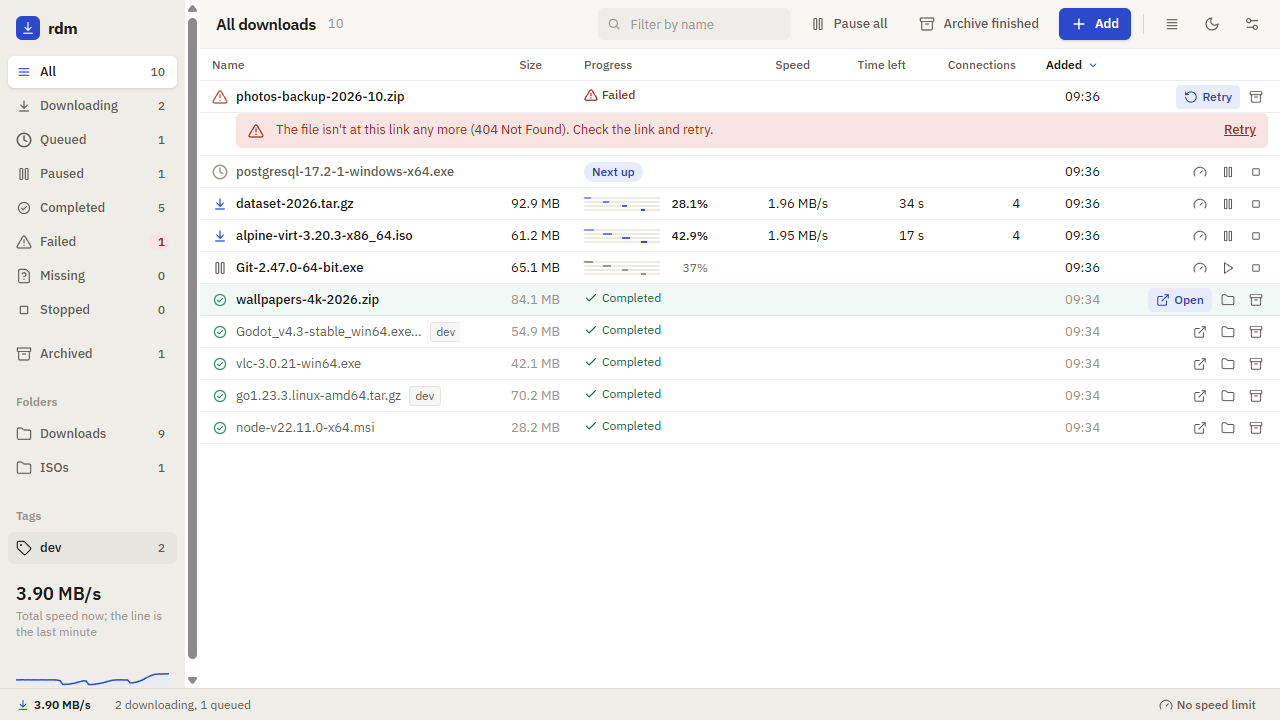
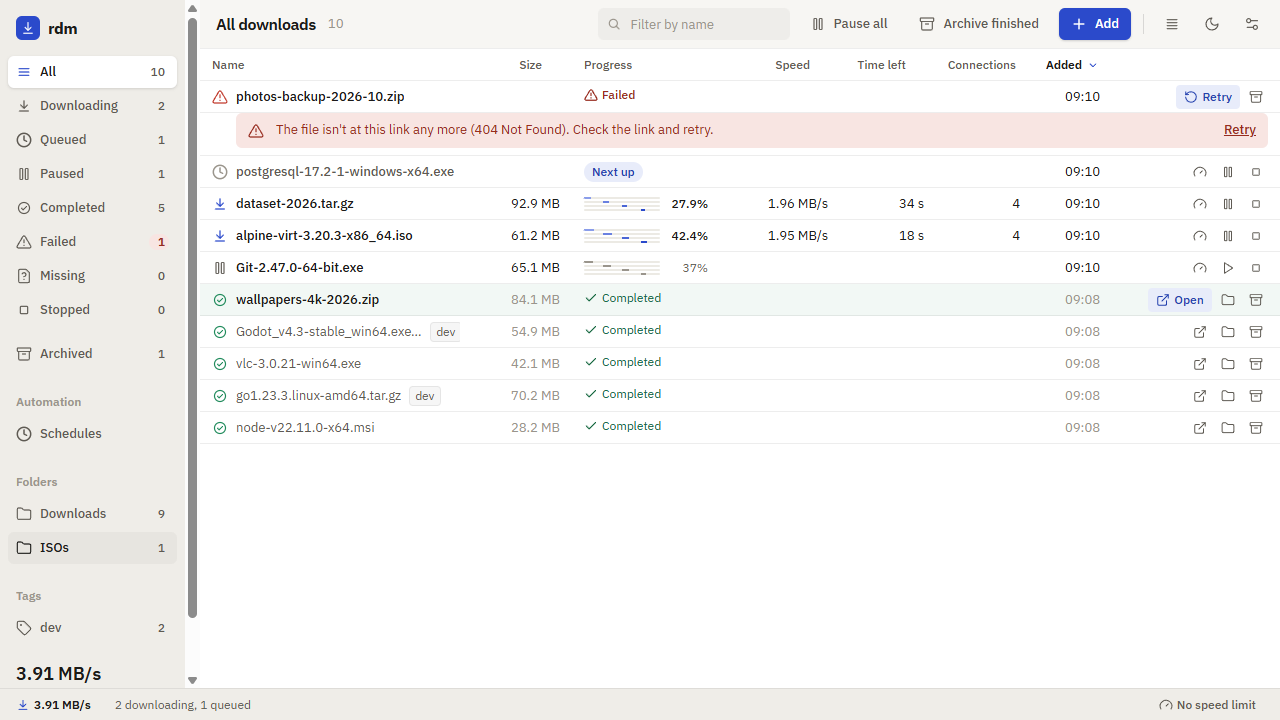
docs: scheduling and automation (#182)
* docs: scheduling and automation

Cross-check and tidy the scheduling docs (cli, gui, how-it-works), add a
README highlight and a changelog entry, and add a Schedules screenshot spec.
The Edit command form no longer shows its empty-program hint in red before
the field is touched, and the e2e typecheck error in schedule-finish is fixed.

* docs: regenerate screenshots with the Schedules view

Regenerate main-light, main-dark and details (new Automation group) and add
schedules.png. Seed the Schedules shot's rules in MiB and reload the page
after seeding so the view shows them.

* fix(gui): format CommandForm and keep the browser import in schedule-finish

---------

diff --git a/gui/e2e/screenshots/schedules.shots.ts b/gui/e2e/screenshots/schedules.shots.ts
@@ -1,0 +1,95 @@
+// Screenshot of the Schedules view: a download window, a speed limit and a tag-scoped window in
+// Rules, two downloads under Coming up, and the When downloads finish section. Run on its own
+// with `pnpm screenshots --spec screenshots/schedules.shots.ts`; RDM_SHOTS_OUT picks the folder
+// (default: the README's docs/screenshots). Not part of the e2e suite.
+
+import { mkdirSync } from "node:fs";
+import path from "node:path";
+import { $, browser } from "@wdio/globals";
+import { baseUrl, invoke, settingsButton, waitForGone } from "../helpers";
+
+const outDir = process.env.RDM_SHOTS_OUT!;
+const WEEKDAYS = ["mon", "tue", "wed", "thu", "fri"];
+const ALL_DAYS = [...WEEKDAYS, "sat", "sun"];
+
+describe("schedules screenshot", () => {
+  before(async () => {
+    mkdirSync(outDir, { recursive: true });
+    await browser.setWindowSize(1280, 900);
+    await browser.execute(() => window.dispatchEvent(new Event("resize")));
+    await browser.pause(500);
+    await $('[data-testid="add-button"]').waitForDisplayed();
+  });
+
+  it("captures the Schedules view", async () => {
+    await invoke("set_schedule", {
+      schedule: {
+        queue_windows: [
+          {
+            name: "Overnight only",
+            enabled: true,
+            window: { start: "22:00", end: "08:00", days: ALL_DAYS },
+            finish_running: false,
+          },
+          {
+            name: "Work tag at night",
+            enabled: true,
+            window: { start: "01:00", end: "06:00", days: ALL_DAYS },
+            finish_running: true,
+            scope: { kind: "tag", tag: "work" },
+          },
+        ],
+        speed_entries: [
+          {
+            name: "Daytime cap",
+            enabled: true,
+            window: { start: "08:00", end: "18:00", days: WEEKDAYS },
+            limit: 5 * 1024 * 1024,
+          },
+        ],
+      },
+    });
+    await invoke("set_post_actions", {
+      actions: {
+        command: { enabled: true, program: "scan.exe", args: ["{path}"] },
+        power: { enabled: false, action: "shutdown" },
+      },
+    });
+    for (const [name, startAt] of [
+      ["ubuntu.iso", "22:00"],
+      ["backup.zip", "03:00"],
+    ]) {
+      await invoke("add_download", {
+        url: `${baseUrl}/seg/${10 * 1000 * 1000}/${name}`,
+        dir: null,
+        checksum: null,
+        limit: null,
+        tags: null,
+        startAt,
+      });
+    }
+    // invoke() doesn't wait for the command, and the view reads the rules when it opens: give
+    // them a moment, then open the view.
+    await browser.pause(1000);
+    await settingsButton().click();
+    const theme = $('[role="group"][aria-label="Theme"]');
+    await theme.waitForDisplayed();
+    await theme.$("button=Light").click();
+    await settingsButton().click();
+    await waitForGone('[role="group"][aria-label="Theme"]');
+    // The page read its rules and actions at startup; reload so it shows the ones seeded above.
+    await browser.refresh();
+    await $('[data-testid="add-button"]').waitForDisplayed();
+    await $('[data-testid="schedules-link"]').click();
+    await $('[data-testid="schedules-view"]').waitForDisplayed();
+    await browser.execute(() => {
+      const style = document.createElement("style");
+      style.textContent =
+        '[data-testid="finish-notification"], [data-testid="toast"] { display: none !important; }';
+      document.head.append(style);
+      (document.activeElement as HTMLElement | null)?.blur();
+    });
+    await browser.pause(800);
+    await browser.saveScreenshot(path.join(outDir, "schedules.png"));
+  });
+});

diff --git a/gui/src/components/schedules/CommandForm.tsx b/gui/src/components/schedules/CommandForm.tsx
@@ -19,6 +19,8 @@ export function CommandForm({ initial, onSubmit, onClose }: Props) {
   const [args, setArgs] = useState(argsText(initial.args));
   const [error, setError] = useState<string | null>(null);
   const [busy, setBusy] = useState(false);
+  // An untouched empty field isn't an error yet.
+  const [touched, setTouched] = useState(false);
   const dialog = useRef<HTMLDivElement>(null);
   const first = useRef<HTMLInputElement>(null);
   const problem = commandProblem(program);
@@ -34,6 +36,7 @@ export function CommandForm({ initial, onSubmit, onClose }: Props) {
   }, [busy, onClose]);
 
   const submit = async () => {
+    setTouched(true);
     if (busy || problem) return;
     setBusy(true);
     setError(null);
@@ -76,7 +79,11 @@ export function CommandForm({ initial, onSubmit, onClose }: Props) {
                 type="text"
                 aria-label="Program"
                 value={program}
-                onChange={(e) => setProgram(e.target.value)}
+                onChange={(e) => {
+                  setProgram(e.target.value);
+                  setTouched(true);
+                }}
+                onBlur={() => setTouched(true)}
                 onKeyDown={(e) => e.key === "Enter" && void submit()}
                 placeholder="scan.exe"
                 className={FIELD}
@@ -104,9 +111,9 @@ export function CommandForm({ initial, onSubmit, onClose }: Props) {
           <div className="flex shrink-0 items-center gap-2 rounded-b-lg bg-surface px-6 py-4">
             <p
               data-testid="command-problem"
-              className={`min-w-0 flex-1 text-sm ${problem ? "text-danger-ink" : "text-g600"}`}
+              className={`min-w-0 flex-1 text-sm ${problem && touched ? "text-danger-ink" : "text-g600"}`}
             >
-              {problem}
+              {touched ? problem : null}
             </p>
             <button type="button" onClick={onClose} disabled={busy} className="btn btn-ghost">
               Cancel

diff --git a/gui/src/components/schedules/FinishSection.test.tsx b/gui/src/components/schedules/FinishSection.test.tsx
@@ -92,6 +92,20 @@ describe("When downloads finish", () => {
     expect(save).not.toHaveBeenCalled();
   });
 
+  it("keeps the empty program hint neutral until it is touched", () => {
+    render(OFF);
+    click(q("finish-command-switch"));
+    const hint = document.querySelector<HTMLElement>('[data-testid="command-problem"]')!;
+    expect(hint.textContent).toBe("");
+    expect(hint.className).not.toContain("danger");
+    const input = document.querySelector<HTMLInputElement>("#cmd-program")!;
+    act(() => {
+      input.dispatchEvent(new FocusEvent("focusout", { bubbles: true }));
+    });
+    expect(hint.textContent).toBe("Enter the program to run");
+    expect(hint.className).toContain("danger");
+  });
+
   it("saves the program and one argument per line", async () => {
     const save = render({
       ...OFF,

diff --git a/docs/cli.md b/docs/cli.md
@@ -19,8 +19,8 @@ rdm [OPTIONS] -i <FILE>
 | `--checksum <algo:hex>` | (One link only.) Verify the finished file against a checksum, e.g. `sha256:…`. |
 | `-c, --connections <n>` | Max parallel connections, 1–16 (default 4; `-c 1` for a single connection). Starts on one and adds more, up to `n`, while measured speed keeps rising. Used only for files of 2 MiB or more on servers that support range requests. |
 | `--limit-rate <rate>` | Cap the download speed in bytes/s, with an optional `K`/`M`/`G` suffix (×1024), e.g. `500K` or `2M`. Shared across all of the download's connections; in a batch it applies to each file. |
-| `--at <time>` | Wait until this local time, then download: `HH:MM` is the next such time (tomorrow's if it has passed), or give `YYYY-MM-DDTHH:MM`. rdm must stay running while it waits; Ctrl-C cancels. A time that isn't one is a usage error (exit 2). With a batch, the whole batch waits. |
-| `--on-finish <sleep\|shutdown>` | After every download has finished, wait 60 seconds (Ctrl-C cancels), then put the machine to sleep or shut it down. Not after a download failed or a Ctrl-C paused the run. An action that isn't one of the two is a usage error (exit 2); one the machine refuses prints an error and exits 1. |
+| `--at <time>` | Wait until this local time, then download: `HH:MM` is the next such time (tomorrow's if it has passed today), or give a full `YYYY-MM-DDTHH:MM`. rdm must stay running; Ctrl-C while waiting cancels. Without it the download starts at once. With a batch, the whole batch waits. See [Scheduling](#scheduling). |
+| `--on-finish <sleep\|shutdown>` | After every download has finished, wait 60 seconds (Ctrl-C cancels), then put the machine to `sleep` or `shutdown`. Not after a failure or a Ctrl-C. See [Scheduling](#scheduling). |
 | `--proxy <url>` | Download through this proxy instead of the system's: `http://`, `https://`, `socks5://` or `socks5h://` (host names resolved by the proxy), with an optional `user:pass@`, e.g. `socks5h://127.0.0.1:1080`. See [Proxies](#proxies). |
 | `--no-proxy` | Connect directly, ignoring the system's proxy. Can't be combined with `--proxy`. |
 | `-v, --verbose` | Also log informational engine events (how the download started, lanes added, resumes, the checksum result, where it was saved and a summary) to stderr. |
@@ -82,6 +82,28 @@ links is a usage error. Ctrl-C pauses every running file; run the same
 command again to resume each from where it stopped (files that had already
 finished are downloaded again, under a new name).
 
+## Scheduling
+
+```sh
+rdm --at 01:30 https://example.com/big.iso
+rdm --at 2026-12-01T22:00 -i urls.txt --on-finish shutdown
+```
+
+`--at` waits in the foreground, so rdm has to stay running until the time
+comes; Ctrl-C while waiting just ends rdm, with nothing downloaded. A
+time that isn't `HH:MM` or `YYYY-MM-DDTHH:MM`, or an action other than
+`sleep` or `shutdown`, is a usage error (exit `2`).
+
+`--on-finish` counts down 60 seconds after the last download finishes and
+then asks the operating system to sleep or shut down; Ctrl-C during the
+countdown cancels it (exit `130`). It does nothing if any download failed or
+a Ctrl-C paused the run. If the machine refuses, rdm prints an error and
+exits `1`.
+
+A download window, a speed schedule, running a command after each download
+and rules for a tag, host or batch are [GUI features](gui.md#schedules): the
+CLI runs once and exits, so there is no rule set for them to attach to.
+
 ## Proxies
 
 By default rdm uses the system's proxy:
@@ -128,10 +150,10 @@ To discard a partial download instead, delete its `<file>.part` and
 | Code | Meaning |
 |---|---|
 | `0` | The download finished (and its checksum matched, if given); for a batch, every file finished. |
-| `1` | The download failed; for a batch, at least one file failed. |
+| `1` | The download failed; for a batch, at least one file failed. Also when `--on-finish` is refused by the machine. |
 | `2` | Invalid arguments (printed with the usage). |
 | `101` | rdm hit a bug (a panic); see [Troubleshooting](#troubleshooting-and-bug-reports). |
-| `130` | Paused by Ctrl-C; run the same command again to resume. |
+| `130` | Paused by Ctrl-C; run the same command again to resume. Also Ctrl-C during the `--on-finish` countdown. |
 
 ## Output and logging
 

diff --git a/docs/how-it-works.md b/docs/how-it-works.md
@@ -12,6 +12,7 @@ share it, so everything here applies to both.
 - [Safe file names](#safe-file-names)
 - [Marked as downloaded (Windows)](#marked-as-downloaded-windows)
 - [The queue and speed limits](#the-queue-and-speed-limits)
+- [Scheduling and automation](#scheduling-and-automation)
 - [Proxies](#proxies)
 - [Missing and moved files](#missing-and-moved-files)
 - [Engine and frontends](#engine-and-frontends)
@@ -152,6 +153,22 @@ network shares) leaves the file unmarked, and the download still succeeds.
   download's file, makes it `<name> (1)`, and files that clash inside it
   become `name (1).ext`. Retry failed for a batch restarts only that batch's
   failed downloads. Without a name the links are plain downloads.
+- **Speed limits:** `--limit-rate` on the CLI; in the GUI, a global limit and
+  an optional per-download limit, both changeable while a download runs. A
+  download's limit is shared across all of its connections.
+- **From the first byte:** a download that starts or resumes runs at its
+  limit straight away, with no initial burst. Its speed is measured over the
+  last 5 seconds from bytes that have passed the limit's wait, so it reads
+  close to the limit, even when data arrives less often than that.
+
+## Scheduling and automation
+
+Rules for when downloads run, and what happens when they finish. The rules
+are Manager state, evaluated against an injected clock (the tests run on a
+fake one), and saved with the settings. The CLI has only the one-off forms
+(`--at`, `--on-finish`); the rest is the desktop app's
+[Schedules](gui.md#schedules).
+
 - **Queue window (GUI):** a rule gives the queue hours of the day and days of
   the week, in the machine's local time; it may cross midnight (22:00 to
   06:00). Outside every enabled window nothing starts; downloads wait as
@@ -165,8 +182,8 @@ network shares) leaves the file unmarked, and the download still succeeds.
   it is an hour shorter or longer; a close inside the hour that repeats when
   the clock falls back is crossed once, not again. Rules are checked every
   second, apply at launch, and are saved with the settings. Rdm only
-  schedules while it is running. See the [roadmap](../roadmap.md) for what
-  comes next.
+  schedules while it is running: it never wakes the machine or runs as a
+  service.
 - **Speed schedule (GUI):** a speed entry is a window and a limit. Inside the
   first enabled entry whose window is open, its limit replaces the global
   limit; outside every entry the global limit applies. The result is set on
@@ -212,13 +229,6 @@ network shares) leaves the file unmarked, and the download still succeeds.
   nobody gave one refuses, and tests use a fake. Both actions are saved with
   the settings. In the CLI, `--on-finish` waits the same 60 seconds after the
   run, but only when every download succeeded.
-- **Speed limits:** `--limit-rate` on the CLI; in the GUI, a global limit and
-  an optional per-download limit, both changeable while a download runs. A
-  download's limit is shared across all of its connections.
-- **From the first byte:** a download that starts or resumes runs at its
-  limit straight away, with no initial burst. Its speed is measured over the
-  last 5 seconds from bytes that have passed the limit's wait, so it reads
-  close to the limit, even when data arrives less often than that.
 
 ## Proxies
 

diff --git a/docs/gui.md b/docs/gui.md
@@ -11,6 +11,7 @@ see [Installing rdm](install.md#desktop-app); to build it, see
 - [Batches](#batches)
 - [Finding and selecting](#finding-and-selecting)
 - [The queue](#the-queue)
+- [Speed limits](#speed-limits)
 - [Schedules](#schedules)
 - [Lanes and details](#lanes-and-details)
 - [Completed and failed downloads](#completed-and-failed-downloads)
@@ -136,6 +137,8 @@ turns orange and the Speed column reads the speed against the limit:
 downloads run. One line at the top says where the queue stands ("Queue paused.
 The window opens at 22:00."), and the list below has one row per rule.
 
+![The Schedules view: a download window, a tag-scoped window and a weekday speed limit under Rules, two scheduled downloads under Coming up, and the When downloads finish section](screenshots/schedules.png)
+
 A **download window** is the span of the day when downloads run, on every day,
 weekdays, weekends or days you choose. It may cross midnight (22:00 to 08:00).
 Outside it the queue is paused: nothing new starts, and the status bar says
@@ -196,7 +199,7 @@ counts the missed schedules. **Start all** (or **Start now** on one) sends the
 downloads into the queue, oldest due first, under the usual limit. **Reschedule**
 offers real times (Tue 22:00 Tonight, Wed 22:00 Tomorrow, then a week on) and
 **Pick a time…**. **Dismiss** drops the schedules and leaves their downloads
-in the list, paused.
+in the list, paused, to resume when you want.
 
 ### When downloads finish
 

diff --git a/CHANGELOG.md b/CHANGELOG.md
@@ -7,6 +7,22 @@ desktop app share one version.
 
 ## Unreleased
 
+### Added
+
+- Scheduling and automation in the desktop app: a **Schedules** view (sidebar,
+  under Automation) holds download windows (the queue runs only between set
+  times and days, pausing running downloads at close and resuming at open),
+  speed limits that replace the global limit at set times, and a **Start at**
+  time for downloads. A start time that passed while rdm was closed is shown
+  as missed, with Start all, Reschedule and Dismiss. A window or speed limit
+  can apply to all downloads, a tag, a host or a batch.
+- **When downloads finish** actions: run a program after each download (never
+  through a shell, with `{path}` and `{name}` filled in), and sleep, hibernate
+  or shut down when everything is done, after a 60 second countdown with Cancel.
+- `rdm --at <time>` waits until a local time before downloading, and
+  `rdm --on-finish <sleep|shutdown>` puts the machine to sleep or shuts it
+  down after the run (CLI).
+
 ## 0.5.0 - 2026-11-16
 
 ### Added

diff --git a/README.md b/README.md
@@ -16,6 +16,7 @@ command-line tool and a desktop app.
 - **In control:** pause, resume, stop and speed limits.
 - **A queue (GUI):** downloads wait their turn; paste many links at once.
 - **Batch downloads:** paste or list many links, use `[01-12]` ranges, and group them as a named batch (GUI) with one speed limit; `rdm -i urls.txt` does the same from the CLI.
+- **Scheduling (GUI):** a nightly queue window, a speed schedule, a start time, and a command or shutdown when everything is done; `--at` and `--on-finish` in the CLI. [Details](docs/gui.md#schedules)
 - **Archive and tags (GUI):** archive finished downloads and filter by tag.
 - **Missing files (GUI):** finished downloads whose file moved are flagged, and rdm can find them again.
 - **Verified:** optional SHA-256 checksum checked before the file is saved.
